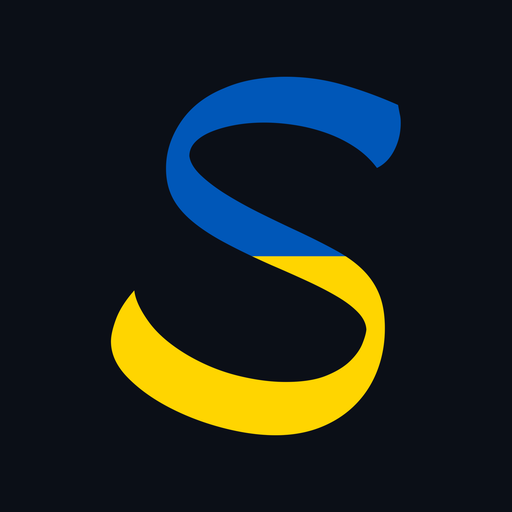
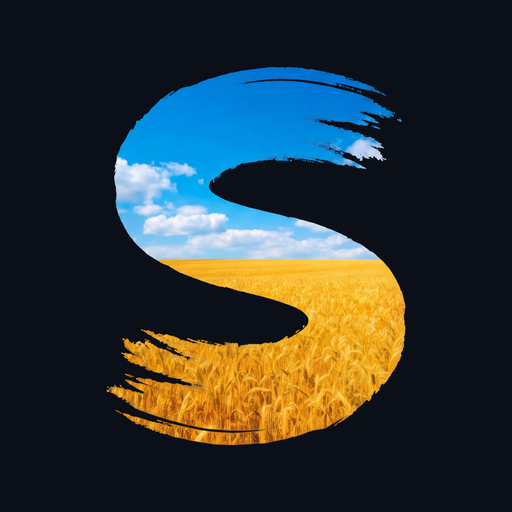
Чернетка нового стилю: знак-мазок, анімація пензля, нова палітра

Changed region(s): [[0.1875, 0.125, 0.8125, 0.875]]

diff --git a/index.html b/index.html
@@ -7,6 +7,7 @@
 <meta name="description" content="Безкоштовні українізатори ігор від Stepovyk: Call of Duty: World at War, Mount &amp; Blade II: Bannerlord і RimWorld. Повний переклад, нові шрифти, встановлення за хвилину. Далі – уся серія Call of Duty і дубляж Bannerlord.">
 <link rel="canonical" href="https://stepovyk.github.io/">
 <meta name="theme-color" content="#0b0f17">
+<link rel="preload" href="assets/mark.webp?v=ee1c2dbb" as="image" type="image/webp">
 <meta name="color-scheme" content="dark">
 <meta property="og:type" content="website">
 <meta property="og:locale" content="uk_UA">
@@ -14,28 +15,28 @@
 <meta property="og:title" content="Ігри українською – українізатори від Stepovyk">
 <meta property="og:description" content="Безкоштовні повні українські локалізації: Call of Duty: World at War, Mount &amp; Blade II: Bannerlord і RimWorld. Далі – уся серія Call of Duty.">
 <meta property="og:url" content="https://stepovyk.github.io/">
-<meta property="og:image" content="https://stepovyk.github.io/assets/og.png?v=796b2ee3">
+<meta property="og:image" content="https://stepovyk.github.io/assets/og.png?v=83cd9009">
 <meta property="og:image:width" content="1200">
 <meta property="og:image:height" content="630">
 <meta name="twitter:card" content="summary_large_image">
-<link rel="icon" href="assets/icon.svg?v=a14110bd" type="image/svg+xml">
-<link rel="icon" href="favicon.png?v=6b04ccf6" type="image/png" sizes="64x64">
-<link rel="apple-touch-icon" href="assets/apple-touch-icon.png?v=2267c25b">
+<link rel="icon" href="assets/icon.svg?v=07522242" type="image/svg+xml">
+<link rel="icon" href="favicon.png?v=394325da" type="image/png" sizes="64x64">
+<link rel="apple-touch-icon" href="assets/apple-touch-icon.png?v=2431407e">
 <link rel="manifest" href="site.webmanifest">
 <script type="application/ld+json">{"@context":"https://schema.org","@graph":[{"@type":"WebSite","name":"Ігри українською","url":"https://stepovyk.github.io/","inLanguage":"uk"},{"@type":"Person","name":"Stepovyk","url":"https://stepovyk.github.io/","image":"https://stepovyk.github.io/assets/avatar-512.png","sameAs":["https://t.me/stepovyk_ua","https://github.com/stepovyk","https://www.nexusmods.com/users/174402135"]}]}</script>
 <link rel="preconnect" href="https://fonts.googleapis.com">
 <link rel="preconnect" href="https://fonts.gstatic.com" crossorigin>
-<link href="https://fonts.googleapis.com/css2?family=Fira+Sans+Condensed:wght@600;700&family=Fira+Sans:wght@400;500&family=Kaushan+Script&display=swap" rel="stylesheet">
+<link href="https://fonts.googleapis.com/css2?family=Fira+Sans+Condensed:wght@600;700&family=Fira+Sans:wght@400;500&display=swap" rel="stylesheet">
 <style>
 :root{
   --bg:#0b0f17;--surface:#131a26;--surface-2:#1a2332;--line:#243044;
-  --text:#eef2f8;--muted:#a3aec0;--blue:#0057b8;--blue-hi:#2f7ee0;--yellow:#ffd500;
+  --text:#eef2f8;--muted:#a3aec0;--blue:#0b6bc4;--blue-hi:#1d82df;--yellow:#f5b21e;--sky:#0a84d6;
   --r:20px;--gut:16px;--pad:clamp(22px,2.4vw,28px);
   --head:"Fira Sans Condensed",system-ui,sans-serif;--body:"Fira Sans",system-ui,sans-serif;
 }
 *{box-sizing:border-box}
 html{scroll-behavior:smooth;-webkit-text-size-adjust:100%}
-body{margin:0;background:radial-gradient(900px 420px at 12% 0,rgb(0 87 184 / .26),transparent 70%),radial-gradient(700px 360px at 92% 0,rgb(255 213 0 / .08),transparent 70%) no-repeat,var(--bg);color:var(--text);font:400 17px/1.55 var(--body);overflow-x:hidden}
+body{margin:0;background:radial-gradient(900px 480px at 85% 0,rgb(10 132 214 / .30),transparent 70%),radial-gradient(800px 420px at 70% 640px,rgb(245 178 30 / .12),transparent 70%) no-repeat,var(--bg);color:var(--text);font:400 17px/1.55 var(--body);overflow-x:hidden}
 img{display:block;max-width:100%;height:auto}
 a{color:inherit}
 .wrap{width:min(1120px,100% - 2*var(--gut));margin-inline:auto}
@@ -44,8 +45,8 @@ a{color:inherit}
 /* шапка */
 header{position:sticky;top:0;z-index:10;background:rgb(11 15 23 / .82);backdrop-filter:blur(12px);-webkit-backdrop-filter:blur(12px);border-bottom:1px solid rgb(255 255 255 / .06)}
 .bar{display:flex;align-items:center;justify-content:space-between;height:64px;gap:12px}
-.brand{display:inline-flex;align-items:center;min-height:44px;text-decoration:none;font:400 31px/1 "Kaushan Script",var(--head);color:var(--text)}
-.brand .s{background:linear-gradient(var(--blue) 50%,var(--yellow) 50%);-webkit-background-clip:text;background-clip:text;color:transparent;padding:.08em 0}
+.brand{display:inline-flex;align-items:center;min-height:44px;text-decoration:none}
+.brand img{height:34px;width:auto}
 .nav{display:flex;gap:6px;align-items:center}
 .nav a{text-decoration:none;color:var(--muted);font:500 15px/1 var(--body);padding:14px 12px;border-radius:999px;transition:color .2s,background .2s}
 .nav a:hover{color:var(--text);background:var(--surface)}
@@ -58,7 +59,7 @@ header{position:sticky;top:0;z-index:10;background:rgb(11 15 23 / .82);backdrop-
 .btn:active{transform:scale(.97)}
 .btn svg{width:20px;height:20px;flex:none}
 .btn-y{background:var(--yellow);color:#14161a}
-.btn-y:hover{box-shadow:0 8px 28px rgb(255 213 0 / .28)}
+.btn-y:hover{box-shadow:0 8px 28px rgb(245 178 30 / .32)}
 .btn-b{background:var(--blue);color:#fff}
 .btn-b:hover{background:var(--blue-hi)}
 .btn-g{background:var(--surface-2);color:var(--text);box-shadow:inset 0 0 0 1px var(--line)}
@@ -68,10 +69,11 @@ header{position:sticky;top:0;z-index:10;background:rgb(11 15 23 / .82);backdrop-
 /* перший екран */
 .hero{padding:clamp(48px,8vw,104px) 0 clamp(16px,3vw,32px);display:grid;grid-template-columns:minmax(0,1fr) minmax(0,1fr);gap:clamp(28px,4vw,56px);align-items:center}
 @media (max-width:900px){.hero{grid-template-columns:1fr}}
-.hero-art{--m:linear-gradient(90deg,transparent,#000 18%,#000 86%,transparent),linear-gradient(transparent,#000 20%,#000 76%,transparent);margin:0 calc(-1 * var(--gut));aspect-ratio:5/4;-webkit-mask:var(--m);-webkit-mask-composite:source-in;mask:var(--m);mask-composite:intersect}
-.hero-art img{width:100%;height:100%;object-fit:cover}
-@media (min-width:600px){.hero-art{width:min(600px,100%);margin:0 auto}}
-@media (min-width:901px){.hero-art{width:auto;margin:0}}
+.hero-art{display:flex;justify-content:center}
+.mark{display:block;width:auto;height:clamp(300px,52vw,560px);max-width:100%;filter:drop-shadow(0 24px 60px rgb(10 132 214 / .25))}
+.mark .stroke{stroke-dasharray:1 1;stroke-dashoffset:1;animation:paint 1.7s cubic-bezier(.55,0,.2,1) .25s forwards}
+@keyframes paint{to{stroke-dashoffset:0}}
+@media (max-width:900px){.hero-art{order:-1}.mark{height:clamp(260px,70vw,400px)}}
 .hero-text{min-width:0}
 h1{font:700 clamp(46px,12vw,112px)/.92 var(--head);margin:0 0 28px;text-transform:uppercase;letter-spacing:-.01em}
 h1 span{display:block;color:var(--yellow)}
@@ -106,8 +108,8 @@ h3{font:700 clamp(26px,3.4vw,32px)/1.05 var(--head);margin:0;text-wrap:balance}
 .next{display:grid;grid-template-columns:repeat(auto-fit,minmax(min(100%,340px),1fr));gap:20px}
 .card{border-radius:var(--r);padding:var(--pad);background:linear-gradient(160deg,var(--surface-2),var(--surface));box-shadow:inset 0 0 0 1px var(--line);display:flex;flex-direction:column;gap:14px}
 .tag{align-self:flex-start;font:600 14px/1 var(--head);text-transform:uppercase;letter-spacing:.05em;color:var(--yellow);display:flex;align-items:center;gap:8px}
-.tag::before{content:"";width:8px;height:8px;border-radius:50%;background:var(--yellow);box-shadow:0 0 0 0 rgb(255 213 0 / .6);animation:pulse 2s infinite}
-@keyframes pulse{70%{box-shadow:0 0 0 8px rgb(255 213 0 / 0)}100%{box-shadow:0 0 0 0 rgb(255 213 0 / 0)}}
+.tag::before{content:"";width:8px;height:8px;border-radius:50%;background:var(--yellow);box-shadow:0 0 0 0 rgb(245 178 30 / .6);animation:pulse 2s infinite}
+@keyframes pulse{70%{box-shadow:0 0 0 8px rgb(245 178 30 / 0)}100%{box-shadow:0 0 0 0 rgb(245 178 30 / 0)}}
 .card p{margin:0;color:var(--muted)}
 .card .btns{margin-top:auto}
 
@@ -118,7 +120,7 @@ h3{font:700 clamp(26px,3.4vw,32px)/1.05 var(--head);margin:0;text-wrap:balance}
 .steppe p{margin:0;color:var(--muted);max-width:56ch;text-wrap:pretty}
 
 /* підтримка */
-.support{border-radius:28px;padding:calc(var(--pad) * 2);background:linear-gradient(135deg,#0a3f84,var(--blue) 60%,#0b4a9a)}
+.support{border-radius:28px;padding:calc(var(--pad) * 2);background:linear-gradient(135deg,#08508f,var(--blue) 55%,#0a84d6)}
 .support h2{color:#fff}
 .support .sub{color:#d7e5ff}
 .support .note{margin:22px 0 0;color:#d7e5ff;font-size:16px}
@@ -129,13 +131,13 @@ footer{padding:40px 0 56px;color:var(--muted);font-size:15px}
 .foot nav{display:flex;flex-wrap:wrap;gap:0 8px;margin:0 -10px}
 .foot nav a{display:inline-flex;align-items:center;min-height:44px;padding:0 10px}
 .foot a{text-decoration:none}.foot a:hover{color:var(--text)}
-.brand-foot{font-size:26px}
+.brand-foot img{height:30px}
 .legal{margin:16px 0 0;font-size:14px;color:#7d889b}
 
 /* поява */
 .rise{opacity:0;transform:translateY(18px);transition:opacity .7s ease,transform .7s ease}
 .rise.in{opacity:1;transform:none}
-@media (prefers-reduced-motion:reduce){*,*::before,*::after{animation:none!important;transition:none!important;scroll-behavior:auto!important}.rise{opacity:1;transform:none}}
+@media (prefers-reduced-motion:reduce){*,*::before,*::after{animation:none!important;transition:none!important;scroll-behavior:auto!important}.rise{opacity:1;transform:none}.mark .stroke{stroke-dashoffset:0}}
 .toast{position:fixed;left:50%;bottom:24px;transform:translate(-50%,20px);background:var(--text);color:var(--bg);font:500 16px/1 var(--body);padding:14px 20px;border-radius:999px;opacity:0;pointer-events:none;transition:.25s;z-index:20}
 .toast.on{opacity:1;transform:translate(-50%,0)}
 </style>
@@ -143,7 +145,7 @@ footer{padding:40px 0 56px;color:var(--muted);font-size:15px}
 <body>
 <header>
   <div class="wrap bar">
-    <a class="brand" href="#top" aria-label="Ігри українською – на початок"><span class="s">S</span>tepovyk</a>
+    <a class="brand" href="#top" aria-label="Stepovyk – на початок"><img src="assets/logo.svg?v=143729be" alt="Stepovyk" width="102" height="34"></a>
     <nav class="nav" aria-label="Розділи">
       <a class="opt" href="#games">Переклади</a>
       <a class="opt" href="#next">У роботі</a>
@@ -166,8 +168,17 @@ footer{padding:40px 0 56px;color:var(--muted);font-size:15px}
       </button>
     </div>
     </div>
-    <div class="hero-art" aria-hidden="true">
-      <img src="assets/art-hero-640.jpg" srcset="assets/art-hero-640.jpg 640w, assets/art-hero.jpg 1200w" sizes="(max-width:900px) 100vw, 560px" alt="" width="1200" height="960" fetchpriority="high">
+    <div class="hero-art">
+      <!-- знак: з mark.py, пише sync.py -->
+<svg class="mark" viewBox="0 0 1237 1567" role="img" aria-label="Stepovyk">
+  <defs>
+    <mask id="brush" maskUnits="userSpaceOnUse" x="0" y="0" width="1237" height="1567">
+      <path class="stroke" d="M1309,442 L1032,318 L1016,306 L999,290 L982,273 L965,257 L948,245 L931,240 L914,238 L897,235 L880,233 L863,229 L846,226 L829,222 L812,218 L795,214 L778,209 L761,203 L744,197 L727,193 L710,192 L693,193 L676,198 L659,203 L642,208 L625,211 L608,214 L591,217 L574,221 L557,224 L540,227 L523,230 L506,233 L489,237 L472,241 L455,246 L438,251 L421,258 L404,265 L387,274 L370,284 L353,296 L337,310 L323,326 L313,343 L306,360 L301,377 L295,394 L290,411 L285,428 L281,445 L276,462 L273,479 L274,496 L278,513 L282,530 L287,547 L292,564 L298,581 L304,598 L310,615 L317,632 L328,649 L343,664 L360,676 L377,686 L394,694 L411,701 L428,708 L445,715 L462,721 L479,726 L496,732 L513,737 L530,742 L547,747 L564,752 L581,756 L598,761 L615,765 L632,769 L649,773 L666,777 L683,782 L700,787 L717,791 L734,796 L751,801 L768,807 L785,812 L802,818 L819,824 L836,831 L853,838 L870,846 L887,854 L904,864 L921,877 L936,892 L947,909 L954,926 L961,943 L967,960 L972,977 L978,994 L983,1011 L988,1028 L992,1045 L994,1062 L992,1079 L987,1096 L982,1113 L977,1130 L972,1147 L967,1164 L961,1181 L955,1198 L947,1215 L934,1231 L918,1246 L901,1259 L884,1270 L867,1279 L850,1287 L833,1294 L816,1300 L799,1305 L782,1309 L765,1313 L748,1316 L731,1319 L714,1322 L697,1324 L680,1327 L663,1329 L646,1332 L629,1334 L612,1338 L595,1341 L578,1346 L561,1351 L544,1356 L527,1356 L510,1352 L493,1345 L476,1340 L459,1336 L442,1332 L425,1328 L408,1324 L391,1320 L374,1316 L357,1312 L340,1307 L323,1302 L306,1297 L289,1288 L272,1274 L255,1257 L238,1240 L221,1223 L204,1209 L187,1199 L173,1195" pathLength="1" fill="none" stroke="#fff" stroke-width="506" stroke-linecap="round" stroke-linejoin="round"/>
+    </mask>
+  </defs>
+  <image href="assets/mark.webp?v=ee1c2dbb" width="1237" height="1567" mask="url(#brush)"/>
+</svg>
+      <!-- /знак -->
     </div>
   </div>
 
@@ -286,7 +297,7 @@ footer{padding:40px 0 56px;color:var(--muted);font-size:15px}
 <footer>
   <div class="wrap">
     <div class="foot">
-      <a class="brand brand-foot" href="#top" aria-label="Stepovyk – на початок"><span class="s">S</span>tepovyk</a>
+      <a class="brand brand-foot" href="#top" aria-label="Stepovyk – на початок"><img src="assets/logo.svg?v=143729be" alt="Stepovyk" width="90" height="30" loading="lazy"></a>
       <nav aria-label="Посилання">
         <a href="https://t.me/stepovyk_ua">Telegram</a>
         <a href="https://github.com/stepovyk">GitHub</a>

diff --git a/404.html b/404.html
@@ -7,17 +7,17 @@
 <meta name="robots" content="noindex">
 <meta name="theme-color" content="#0b0f17">
 <meta name="color-scheme" content="dark">
-<link rel="icon" href="/assets/icon.svg?v=a14110bd" type="image/svg+xml">
-<link rel="icon" href="/favicon.png?v=6b04ccf6" type="image/png" sizes="64x64">
+<link rel="icon" href="/assets/icon.svg?v=07522242" type="image/svg+xml">
+<link rel="icon" href="/favicon.png?v=394325da" type="image/png" sizes="64x64">
 <link rel="preconnect" href="https://fonts.googleapis.com">
 <link rel="preconnect" href="https://fonts.gstatic.com" crossorigin>
-<link href="https://fonts.googleapis.com/css2?family=Fira+Sans+Condensed:wght@600;700&family=Fira+Sans:wght@400&family=Kaushan+Script&display=swap" rel="stylesheet">
+<link href="https://fonts.googleapis.com/css2?family=Fira+Sans+Condensed:wght@600;700&family=Fira+Sans:wght@400&display=swap" rel="stylesheet">
 <style>
-:root{--bg:#0b0f17;--text:#eef2f8;--muted:#a3aec0;--blue:#0057b8;--yellow:#ffd500}
+:root{--bg:#0b0f17;--text:#eef2f8;--muted:#a3aec0;--yellow:#f5b21e}
 *{box-sizing:border-box}
-body{margin:0;min-height:100vh;display:grid;place-items:center;padding:24px 16px;background:radial-gradient(900px 420px at 12% 0,rgb(0 87 184 / .26),transparent 70%),radial-gradient(700px 360px at 92% 0,rgb(255 213 0 / .08),transparent 70%) no-repeat,var(--bg);color:var(--text);font:400 18px/1.55 "Fira Sans",system-ui,sans-serif;text-align:center}
-.logo{display:inline-block;margin:0 0 32px;font:400 56px/1.15 "Kaushan Script",system-ui,sans-serif;color:var(--text);text-decoration:none}
-.logo .s{background:linear-gradient(var(--blue) 50%,var(--yellow) 50%);-webkit-background-clip:text;background-clip:text;color:transparent;padding:.08em 0}
+body{margin:0;min-height:100vh;display:grid;place-items:center;padding:24px 16px;background:radial-gradient(900px 480px at 50% 0,rgb(10 132 214 / .30),transparent 70%),radial-gradient(800px 420px at 50% 100%,rgb(245 178 30 / .10),transparent 70%) no-repeat,var(--bg);color:var(--text);font:400 18px/1.55 "Fira Sans",system-ui,sans-serif;text-align:center}
+.logo{display:inline-block;margin:0 0 32px}
+.logo img{display:block;height:64px;width:auto}
 h1{margin:0 0 12px;font:700 clamp(40px,8vw,64px)/1 "Fira Sans Condensed",system-ui,sans-serif;text-transform:uppercase}
 p{margin:0 0 32px;color:var(--muted)}
 .btn{display:inline-flex;align-items:center;min-height:48px;padding:0 24px;border-radius:999px;background:var(--yellow);color:#14161a;font:600 18px/1 "Fira Sans Condensed",system-ui,sans-serif;text-decoration:none}
@@ -26,7 +26,7 @@ p{margin:0 0 32px;color:var(--muted)}
 </head>
 <body>
 <main>
-  <a class="logo" href="/" aria-label="Stepovyk"><span class="s">S</span>tepovyk</a>
+  <a class="logo" href="/"><img src="/assets/logo.svg?v=143729be" alt="Stepovyk" width="192" height="64"></a>
   <h1>Такої сторінки немає</h1>
   <p>Усі переклади – на головній.</p>
   <a class="btn" href="/">На головну</a>
